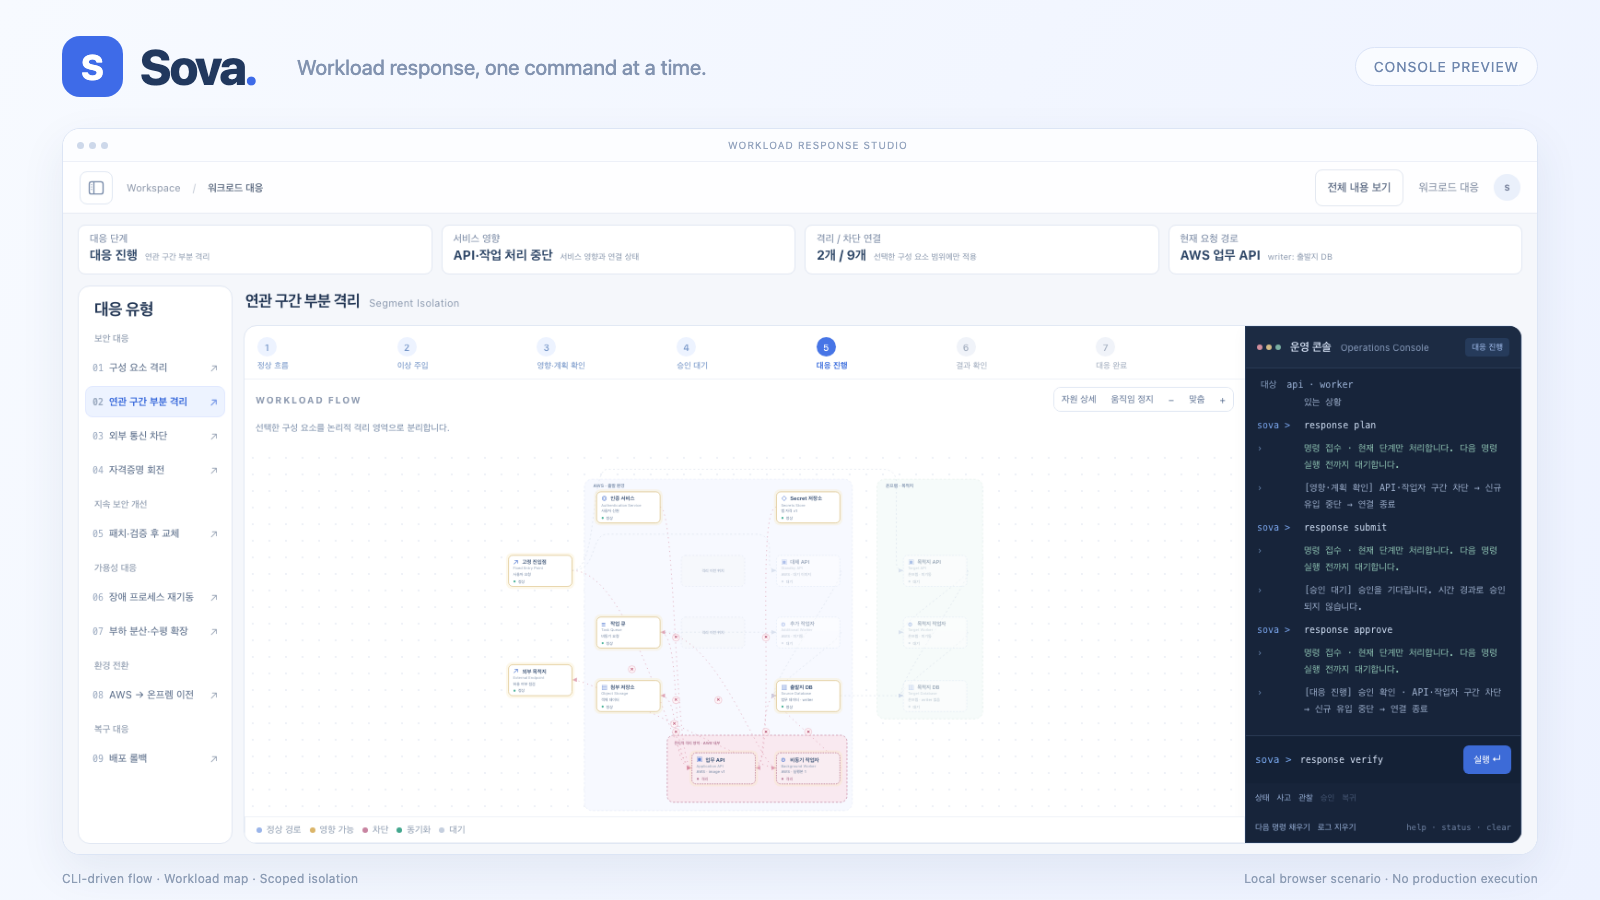
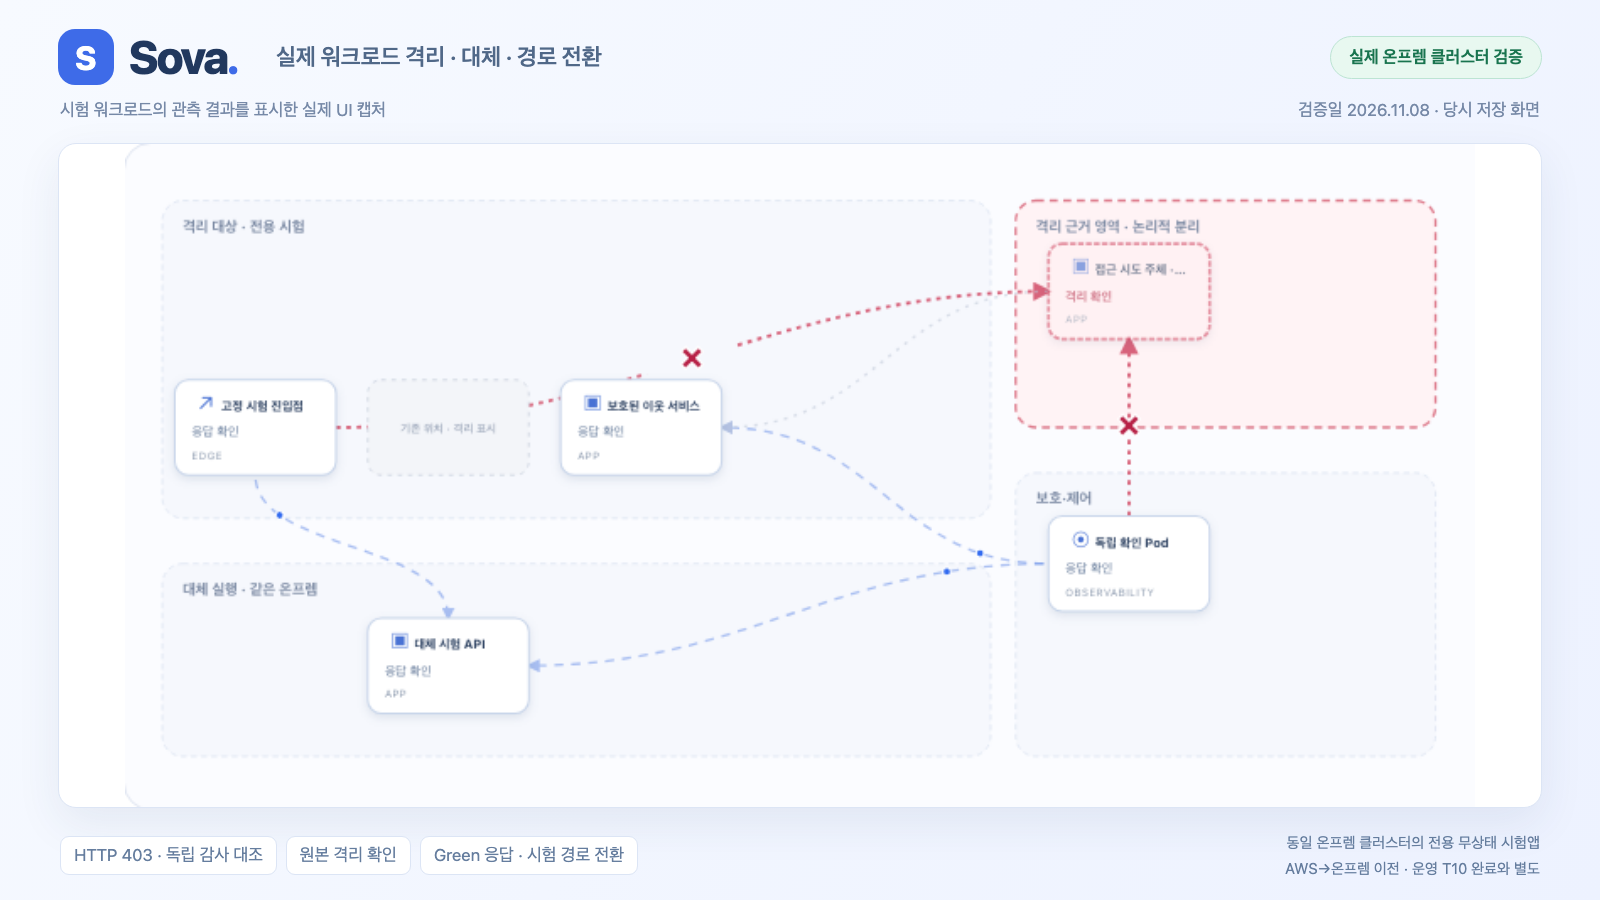
docs: replace console thumbnail with verified on-prem workload capture

diff --git a/docs/assets/thumbnail.html b/docs/assets/thumbnail.html
@@ -1,0 +1,148 @@
+<!doctype html>
+<html lang="ko">
+  <meta charset="utf-8" /><title>Sova · 실제 온프렘 검증</title
+  ><style>
+    * {
+      box-sizing: border-box;
+    }
+    body {
+      margin: 0;
+      width: 1600px;
+      height: 900px;
+      overflow: hidden;
+      background: linear-gradient(120deg, #f7faff, #edf2ff);
+      font-family: -apple-system, BlinkMacSystemFont, "Segoe UI", sans-serif;
+      color: #21385e;
+    }
+    .top {
+      position: absolute;
+      left: 58px;
+      top: 29px;
+      right: 58px;
+      display: flex;
+      align-items: center;
+      justify-content: space-between;
+    }
+    .brand {
+      font-size: 46px;
+      font-weight: 760;
+      letter-spacing: -2px;
+      display: flex;
+      gap: 15px;
+      align-items: center;
+    }
+    .mark {
+      font-size: 33px;
+      display: grid;
+      place-items: center;
+      width: 56px;
+      height: 56px;
+      border-radius: 17px;
+      background: #3e6be8;
+      color: #fff;
+      letter-spacing: 0;
+    }
+    .brand em {
+      font-style: normal;
+      color: #3e6be8;
+    }
+    .caption {
+      font-size: 23px;
+      color: #506888;
+      margin-left: 24px;
+      letter-spacing: 0;
+      font-weight: 600;
+    }
+    .badge {
+      border: 1px solid #bce4d3;
+      border-radius: 24px;
+      background: #e8f8f0;
+      padding: 10px 18px;
+      color: #19744f;
+      font-size: 17px;
+      font-weight: 650;
+    }
+    .sub {
+      position: absolute;
+      top: 100px;
+      left: 60px;
+      right: 60px;
+      display: flex;
+      justify-content: space-between;
+      font-size: 17px;
+      color: #7689a7;
+    }
+    .frame {
+      position: absolute;
+      top: 143px;
+      left: 58px;
+      right: 58px;
+      height: 665px;
+      border: 1px solid #dce5f5;
+      border-radius: 18px;
+      background: #fff;
+      overflow: hidden;
+      box-shadow: 0 16px 45px #223d6b14;
+      display: grid;
+      place-items: center;
+    }
+    .frame img {
+      width: 1350px;
+      height: auto;
+      display: block;
+    }
+    .footer {
+      position: absolute;
+      top: 830px;
+      left: 60px;
+      right: 60px;
+      display: flex;
+      align-items: center;
+      justify-content: space-between;
+      color: #657d9e;
+      font-size: 17px;
+    }
+    .chips {
+      display: flex;
+      gap: 9px;
+    }
+    .chips span {
+      padding: 8px 13px;
+      border: 1px solid #dce5f5;
+      border-radius: 9px;
+      background: #fff;
+    }
+    .note {
+      font-size: 15px;
+      text-align: right;
+      line-height: 1.7;
+    }
+  </style>
+  <div class="top">
+    <div class="brand">
+      <span class="mark">S</span><span>Sova<em>.</em></span
+      ><span class="caption">실제 워크로드 격리 · 대체 · 경로 전환</span>
+    </div>
+    <div class="badge">실제 온프렘 클러스터 검증</div>
+  </div>
+  <div class="sub">
+    <span>시험 워크로드의 관측 결과를 표시한 실제 UI 캡처</span
+    ><span>검증일 2026.11.08 · 당시 저장 화면</span>
+  </div>
+  <div class="frame">
+    <img
+      src="workload-verified-capture.png"
+      alt="실제 시험 원본 격리와 대체 API 경로 전환 지도"
+    />
+  </div>
+  <div class="footer">
+    <div class="chips">
+      <span>HTTP 403 · 독립 감사 대조</span><span>원본 격리 확인</span
+      ><span>Green 응답 · 시험 경로 전환</span>
+    </div>
+    <div class="note">
+      동일 온프렘 클러스터의 전용 무상태 시험앱<br />AWS→온프렘 이전 · 운영 T10
+      완료와 별도
+    </div>
+  </div>
+</html>

diff --git a/docs/assets/workload-verification.md b/docs/assets/workload-verification.md
@@ -1,0 +1,30 @@
+# README 워크로드 지도 · 실제 검증 범위
+
+썸네일은 **2026년 11월 8일 실제 온프렘 Kubernetes 전용 시험 중 저장한 UI 화면**의 워크로드 지도 부분이다. 브라우저에서 만든 9종 대응 시나리오 화면을 사용하지 않았다. 당시 화면의 지도 좌표·노드·상태는 변경하지 않고 해당 영역만 잘라 브랜드·검증 날짜·범위 설명을 붙였다. 현재 클러스터를 다시 실행하거나 실시간으로 조회한 결과는 아니다.
+
+## 확인한 실제 동작
+
+- 같은 온프렘 클러스터의 별도 소유 namespace에서 고정 무상태 시험 API·이웃 서비스·Green API·독립 probe를 실행했다.
+- 원본 Pod에서 보호된 이웃으로 보낸 비인가 HTTP 요청이 실제 403으로 거부됐고, 주체 신원과 독립 감사를 대조했다.
+- 사건 후 별도 승인으로 원본 새 연결 차단, 이웃 정상 응답, Green 기동·HTTP 응답, 시험 진입점 전환과 readback을 확인했다.
+- 화면의 8단계가 근거로 표시되는 것을 확인했다. 시험 종료 후 소유 namespace 세 개의 부재와 세션 회수 시 자료 철회도 확인했다.
+
+이 실행은 단일 시험 API에 대한 검증이다. 임의 앱·일반 공격 탐지·공유 채팅 앱 대응·AWS→온프렘 데이터 이전·무중단 운영·제품 T10 승인 완료를 증명하지 않는다. 그림의 화살표는 시험 요청·probe·격리 관계이며 실제 트래픽량을 나타내는 계측 차트가 아니다. 현재 시험 자원 가동을 의미하지 않는다.
+
+## 코드와 실행 근거 구분
+
+| 구분                         | 기준                                                                           |
+| ---------------------------- | ------------------------------------------------------------------------------ |
+| 실제 시험 실행 생산자        | `3ab5dd3aa2aaf4bc2169526f67e9de3f1d4cf7ba`                                     |
+| 검토한 플랫폼 UI 코드        | `fc1125d2d59d215cc1310ab462b1ae534384137a`의 기존 터미널 시험 UI·지도 renderer |
+| 원본 캡처                    | 비공개 보존. 전체 화면의 개인 경로·시험 식별자는 공개하지 않음                 |
+| 공개 캡처                    | [원본 지도 영역](workload-verified-capture.png)                                |
+| 공개 결과 요약               | [선별한 실제 인수 결과](workload-verification.json)                            |
+| 이미지·원본 해시와 crop 좌표 | [thumbnail.json](thumbnail.json)                                               |
+
+- 실제 실행 코드: [터미널 실행기](https://github.com/Softbank-Hackathon-Finals/sova-test/blob/3ab5dd3aa2aaf4bc2169526f67e9de3f1d4cf7ba/demo/onprem_response/terminal.py), [관측→지도 변환](https://github.com/Softbank-Hackathon-Finals/sova-test/blob/3ab5dd3aa2aaf4bc2169526f67e9de3f1d4cf7ba/demo/onprem_response/terminal_projection.py).
+- 확인한 기존 UI: [터미널 시험 화면](https://github.com/Softbank-Hackathon-Finals/platform/blob/fc1125d2d59d215cc1310ab462b1ae534384137a/services/console/testing/terminal_trial_assets/client.js). 이 검토용 플랫폼 커밋을 실제 시험 실행 생산자 SHA로 대체하지 않는다.
+
+## 변경·확인 기록 · 2026-11-09
+
+이전 README 썸네일의 브라우저 시나리오를 실제 검증 화면으로 교체했다. 보존한 원본 PNG와 인수 결과를 대조하고, 기존 UI가 실제 관측을 지도 renderer에 전달하는 경로를 확인했다. crop 영역에는 개인 경로·Pod UID·접속 정보가 없음을 시각적으로 확인했다. 두 PNG의 규격·SHA-256, 상대 링크와 공개 요약을 검증했다. 이미지·문서만 변경했으며 실제 자원이나 애플리케이션 코드는 수정하지 않았다.

diff --git a/README.md b/README.md
@@ -2,7 +2,7 @@
 
 [![Sova 워크로드 대응 콘솔](docs/assets/thumbnail.png)](docs/assets/thumbnail.png)
 
-개인 개발 브랜치의 워크로드 대응 콘솔 미리보기입니다. 로컬 브라우저 시나리오이며 실제 운영 이전·격리 검증 결과가 아닙니다.
+**실제 검증 환경:** 2026년 11월 8일, 온프렘 Kubernetes 클러스터의 전용 무상태 시험앱에서 검증한 워크로드 지도입니다. 실제 HTTP 403·독립 감사 대조, 승인 후 원본 격리, Green 기동·응답 및 시험 경로 전환을 확인했습니다. 당시 저장한 화면이며 현재 실시간 상태나 AWS→온프렘 이전·운영 T10 완료를 뜻하지 않습니다. [검증 범위·코드·출처](docs/assets/workload-verification.md)
 
 운영 중인 서비스를 다른 환경으로 이전하고, 기능·데이터·보안의 보존 여부를 검증하는 독립 제어 플랫폼.
 
